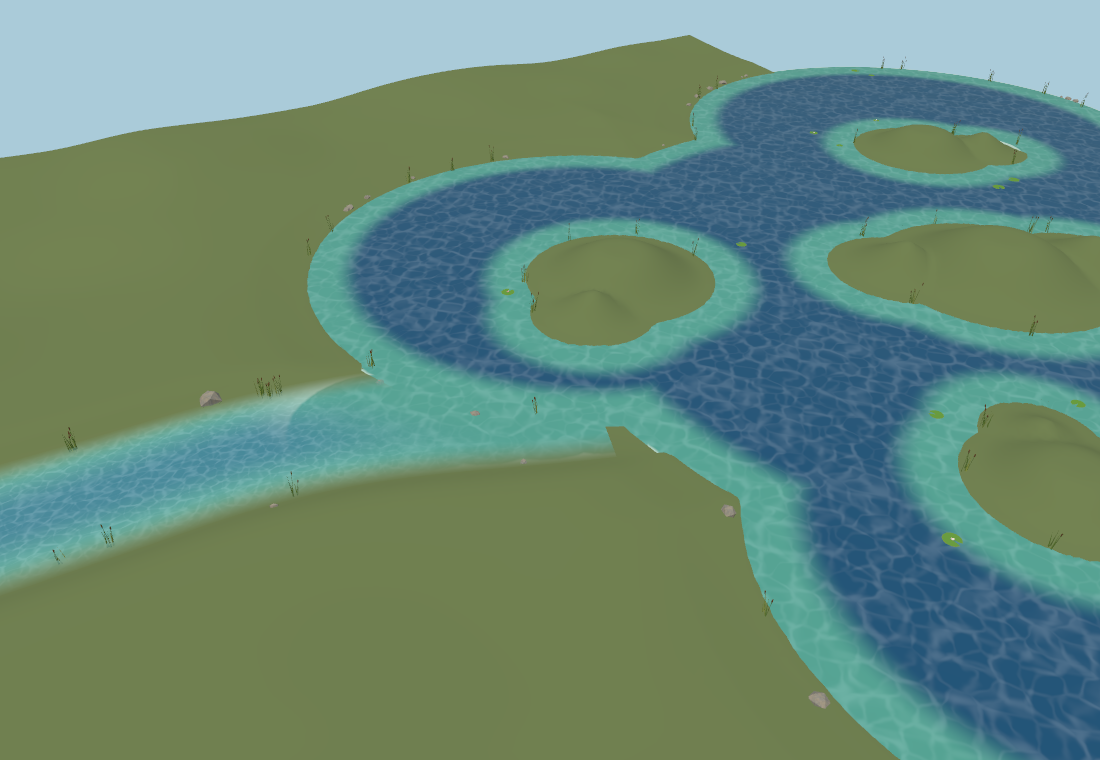
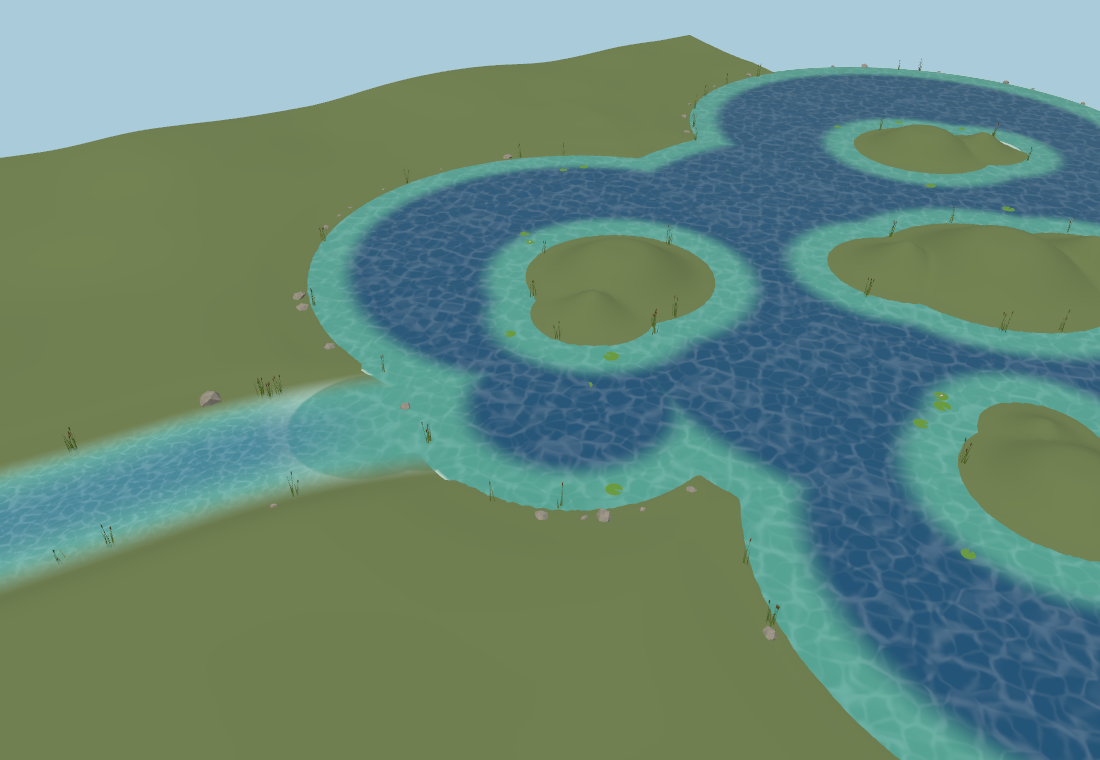
Round the shoreline at the river inlet

diff --git a/packages/shared/test/lake.test.ts b/packages/shared/test/lake.test.ts
@@ -187,10 +187,10 @@ describe('the ground round the lake', () => {
   });
 
   it('meets the water at the shore, a hair above it, on a gentle beach', () => {
-    // The west edge of the biggest blob, where nothing else is in the way.
+    // The south edge of the biggest blob, clear of the new river inlet.
     const big = LAKE.basin[0]!;
-    const x = big.x - big.radius;
-    const z = big.z;
+    const x = big.x;
+    const z = big.z + big.radius;
     expect(Math.abs(basinDepthAt(LAKE, x, z))).toBeLessThan(0.5);
     expect(height(x, z) - LAKE.level).toBeGreaterThan(0);
     expect(height(x, z) - LAKE.level).toBeLessThan(0.3);
@@ -341,15 +341,15 @@ describe('the shore wall', () => {
 
 describe('casting from the shore', () => {
   it('lands the float on the lake, out from the bank', () => {
-    // On the west bank of the biggest blob, facing east: yaw -90 degrees looks down +X.
-    const bank = { x: 55.4, y: 0, z: -88 };
+    // On the inlet's west bank, facing east: yaw -90 degrees looks down +X.
+    const bank = { x: 45.4, y: 0, z: -92 };
     const spot = castLanding(bank, -Math.PI / 2, [], LAKE);
     expect(spot).not.toBeNull();
     expect(isOnLake(LAKE, spot!.x, spot!.z, FLOAT_SHORE_MARGIN)).toBe(true);
   });
 
   it('finds nothing facing away from the lake', () => {
-    const bank = { x: 55.4, y: 0, z: -88 };
+    const bank = { x: 45.4, y: 0, z: -92 };
     expect(castLanding(bank, Math.PI / 2, [], LAKE)).toBeNull();
   });
 

diff --git a/packages/shared/test/stream.test.ts b/packages/shared/test/stream.test.ts
@@ -1,7 +1,7 @@
 import { describe, expect, it } from 'vitest';
 
 import { MAX_WALKABLE_GRADIENT } from '../src/constants';
-import { LAKE, basinDepthAt, lakeDepthAt } from '../src/world/lake';
+import { LAKE, basinDepthAt, lakeDepthAt, lakeWaterDepthAt } from '../src/world/lake';
 import {
   isInStream,
   nearStream,
@@ -154,6 +154,17 @@ describe('the stream', () => {
     }
   });
 
+  it('rounds the former land point into a supported inlet at the river mouth', () => {
+    for (const [x, z] of [
+      [54, -86],
+      [55, -85],
+      [52, -87],
+    ] as const) {
+      expect(lakeDepthAt(LAKE, x, z)).toBeGreaterThan(1);
+      expect(terrain.heightAt(x, z)).toBeLessThan(LAKE.level - 0.1);
+    }
+  });
+
   it('starts on the mountain and ends at the lake', () => {
     const spring = streamPointAt(STREAM, 0);
     const mouth = streamPointAt(STREAM, STREAM.count - 1);
@@ -226,7 +237,10 @@ describe('the stream', () => {
       const surface = streamSurfaceAt(STREAM, along);
       expect(surface - ground).toBeGreaterThan(0.1);
       expect(surface - ground).toBeLessThan(
-        streamDepthMiddle(STREAM, along) + streamPoolDepthAt(STREAM, along, 0) + 0.4,
+        Math.max(
+          streamDepthMiddle(STREAM, along) + streamPoolDepthAt(STREAM, along, 0),
+          lakeWaterDepthAt(LAKE, at.x, at.z),
+        ) + 0.4,
       );
     }
   });

diff --git a/packages/shared/src/world/lake.ts b/packages/shared/src/world/lake.ts
@@ -111,7 +111,7 @@ export function defineLake(
 }
 
 /**
- * The lake as built: five blobs of water that run together into one wide,
+ * The lake as built: five main lobes and a river inlet run together into one wide,
  * lobed lake about a hundred metres across, and five islands. Every island
  * stands well clear of every shore, so there is open water to row across.
  */
@@ -123,6 +123,8 @@ export const LAKE: Lake = defineLake(
     { x: 110, z: -64, radius: 20 },
     { x: 108, z: -110, radius: 22 },
     { x: 68, z: -70, radius: 16 },
+    // Round the inlet where the river banks meet the western lake shore.
+    { x: 55, z: -92, radius: 9 },
   ],
   [
     {

diff --git a/docs/decisions/0122-lake-shallows-and-river-mouth.md b/docs/decisions/0122-lake-shallows-and-river-mouth.md
@@ -2,7 +2,7 @@
 
 The river ended inside the lake with a different colour and ripple pattern. The lake also blocked walking at its entire shore, even on its shallow beaches.
 
-Blend the ribbon into the lake's exact world-space ripple and depth-colour calculation over the last eight metres before the lake outline. Both surfaces use the same connection circles to suppress the lake's former shoreline highlight across the mouth. Keep the lake's depth colour based on its bed rather than those connection circles.
+Blend the ribbon into the lake's exact world-space ripple and depth-colour calculation over the last eight metres before the lake outline. Both surfaces use the same connection circles to suppress the lake's former shoreline highlight across the mouth. Keep the lake's depth colour based on its bed rather than those connection circles. Add a rounded nine-metre inlet at the western mouth so the lake bed, shoreline, collision and water geometry replace the pointed junction together.
 
 Allow lake wading up to 0.8 metres of vertical water depth, the same limit as the river. Derive the barrier's distance from shore by inverting the existing lake-bed slope, keeping the player's capsule clear of deeper water. Apply this on both mainland and island shores. Winter still removes the barrier. Reconnection and thaw preserve players in walkable shallows; deeper positions retain the existing safe-shore recovery.
 
